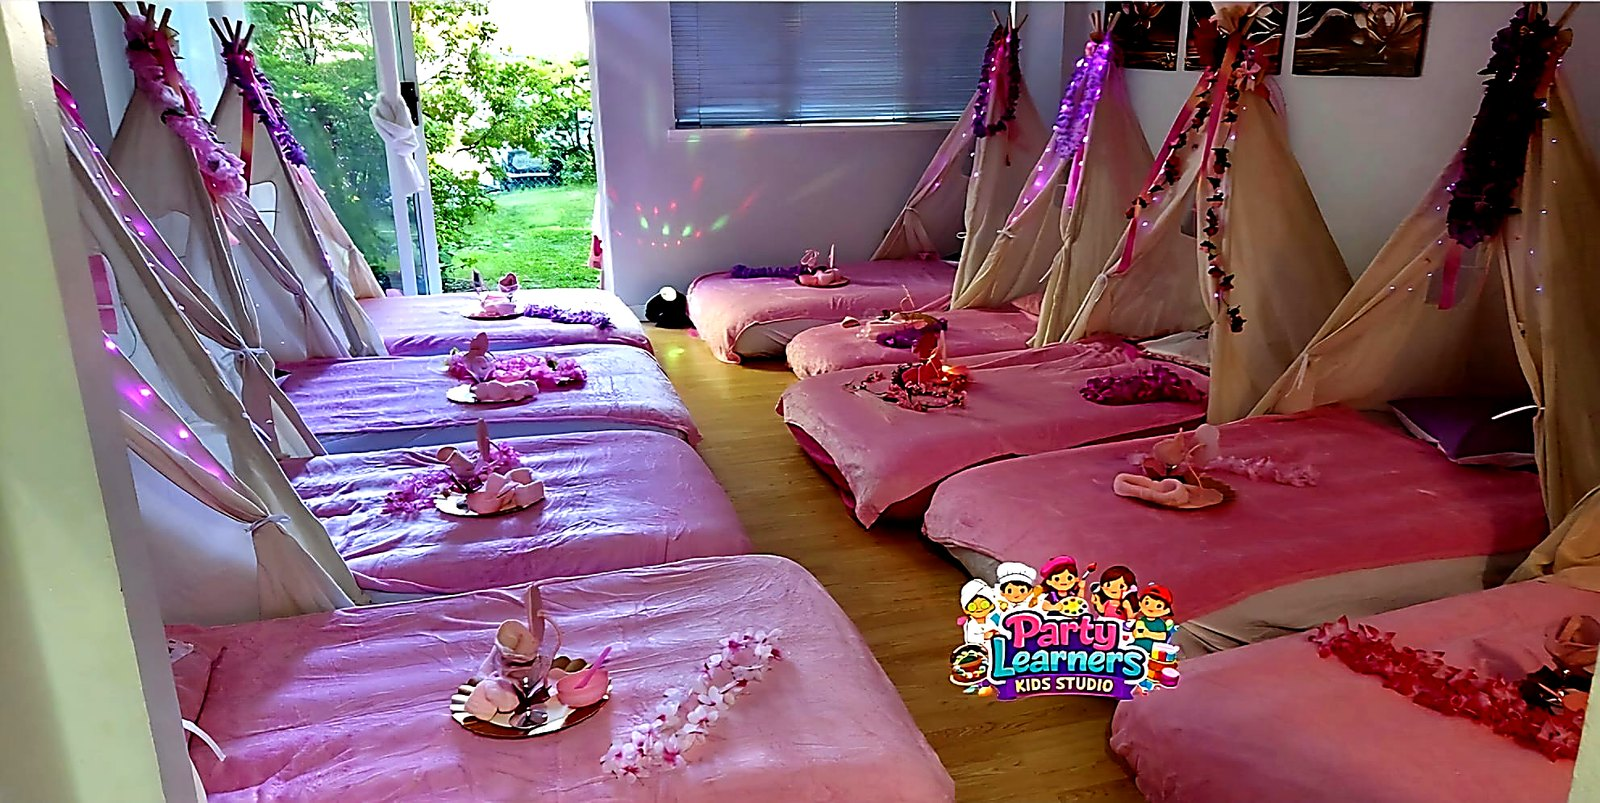
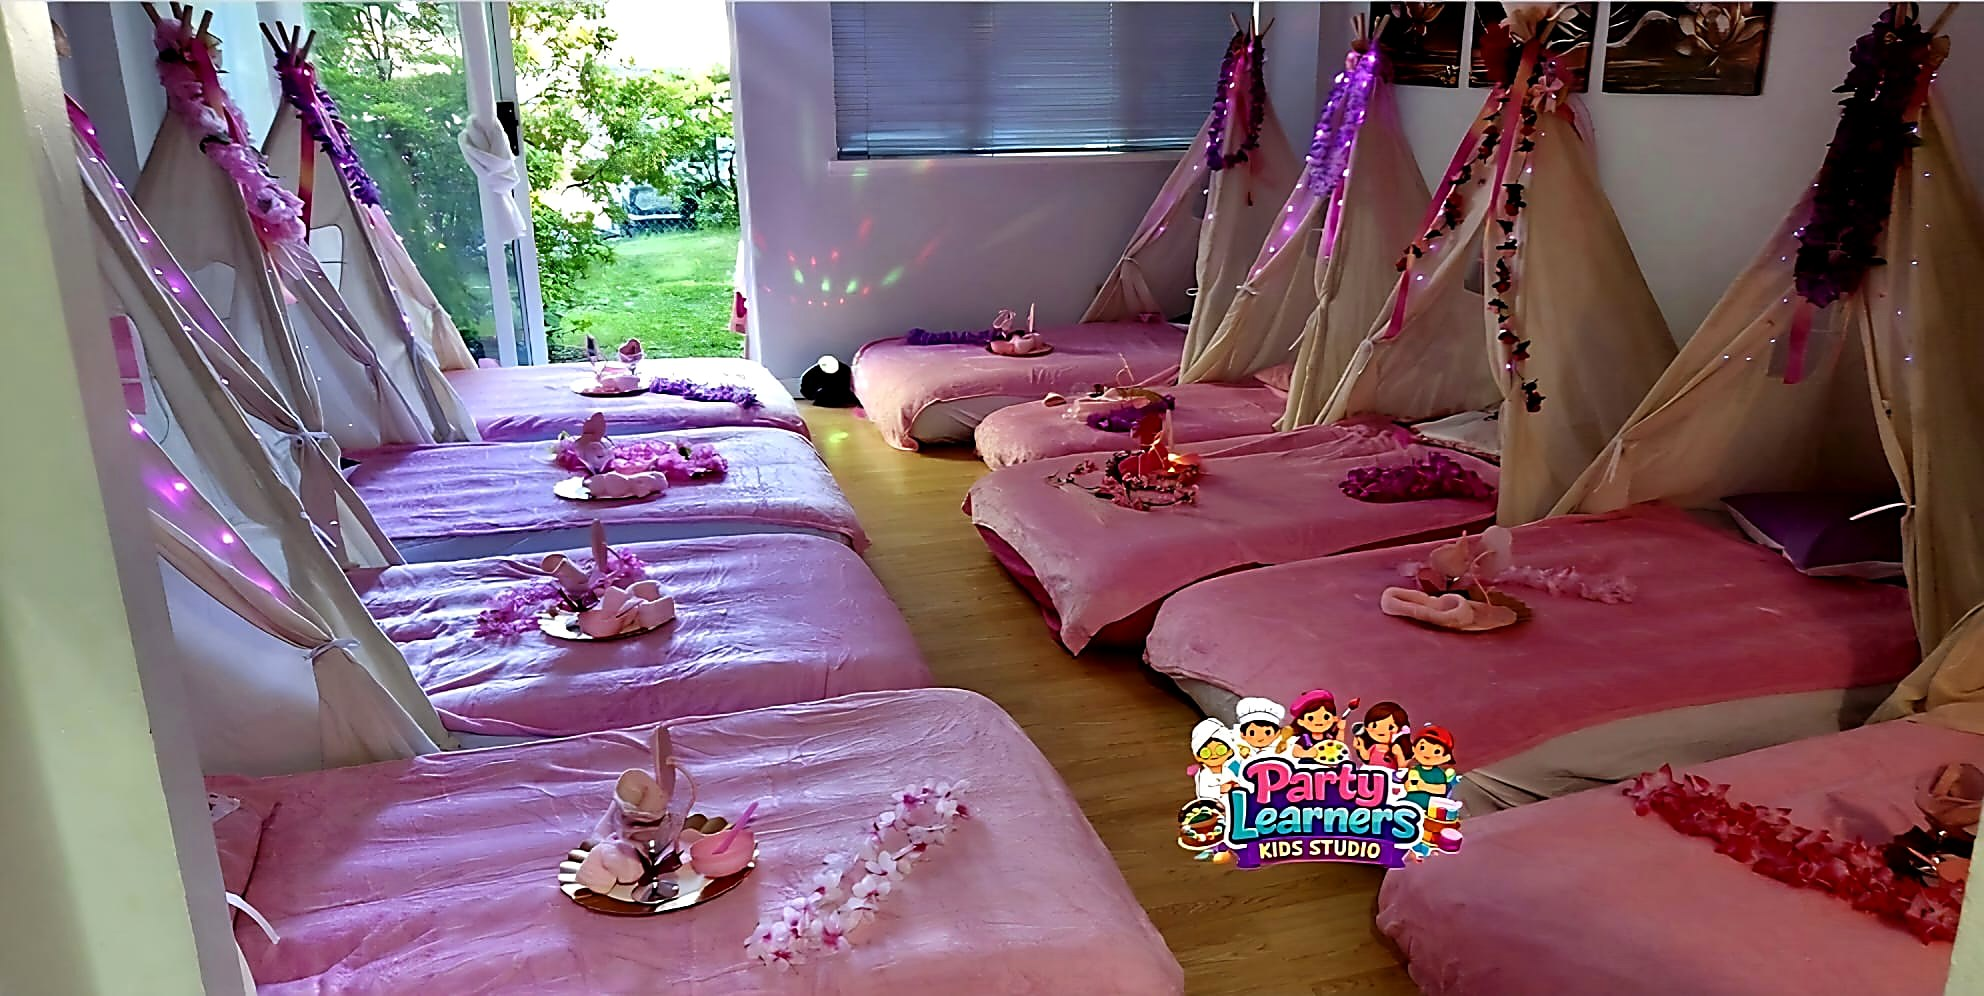
Replace Luxury Slumber "pink window" photo with higher-quality version
Swapped images/luxury-slumber-wide-pink-window.jpg/.webp for a sharper, higher-
resolution version of the same setup (1600x803 -> 1984x996, same 2:1 ratio, light
optimization only). Same filename so the hero carousel (slide 4), gallery, and
experiences page all pick it up. Added ?v=2 to the references to bust browser cache
and updated the hero intrinsic dimensions (no CLS — ratio unchanged).

diff --git a/experiences.html b/experiences.html
@@ -253,8 +253,8 @@
       </div>
       <div class="gallery-item">
         <picture>
-          <source type="image/webp" srcset="images/luxury-slumber-wide-pink-window.webp" />
-          <img src="images/luxury-slumber-wide-pink-window.jpg" alt="Wide view of a Luxury Slumber Party Experience with multiple cream teepees, pink bedding, fairy lights and garden window view by Party Learners Kids Studio" loading="lazy" decoding="async" />
+          <source type="image/webp" srcset="images/luxury-slumber-wide-pink-window.webp?v=2" />
+          <img src="images/luxury-slumber-wide-pink-window.jpg?v=2" alt="Wide view of a Luxury Slumber Party Experience with multiple cream teepees, pink bedding, fairy lights and garden window view by Party Learners Kids Studio" loading="lazy" decoding="async" />
         </picture>
       </div>
       <div class="gallery-item">

diff --git a/gallery.html b/gallery.html
@@ -89,8 +89,8 @@
       </div>
       <div class="gallery-item tall" data-category="slumber">
         <picture>
-          <source type="image/webp" srcset="images/luxury-slumber-wide-pink-window.webp" />
-          <img src="images/luxury-slumber-wide-pink-window.jpg" alt="Wide view of a Luxury Slumber Party with multiple cream teepees, pink bedding, fairy lights and garden window view" loading="lazy" decoding="async" />
+          <source type="image/webp" srcset="images/luxury-slumber-wide-pink-window.webp?v=2" />
+          <img src="images/luxury-slumber-wide-pink-window.jpg?v=2" alt="Wide view of a Luxury Slumber Party with multiple cream teepees, pink bedding, fairy lights and garden window view" loading="lazy" decoding="async" />
         </picture>
       </div>
       <div class="gallery-item tall" data-category="slumber">

diff --git a/index.html b/index.html
@@ -189,8 +189,8 @@
     <article class="hx-slide">
       <div class="hx-slide__media">
         <picture>
-          <source type="image/webp" srcset="images/luxury-slumber-wide-pink-window.webp" />
-          <img src="images/luxury-slumber-wide-pink-window.jpg" alt="Luxury Slumber Party setup with teepees, cozy bedding and soft lighting" loading="lazy" decoding="async" width="1600" height="803" />
+          <source type="image/webp" srcset="images/luxury-slumber-wide-pink-window.webp?v=2" />
+          <img src="images/luxury-slumber-wide-pink-window.jpg?v=2" alt="Luxury Slumber Party setup with teepees, cozy bedding and soft lighting" loading="lazy" decoding="async" width="1984" height="996" />
         </picture>
       </div>
       <div class="hx-slide__panel">